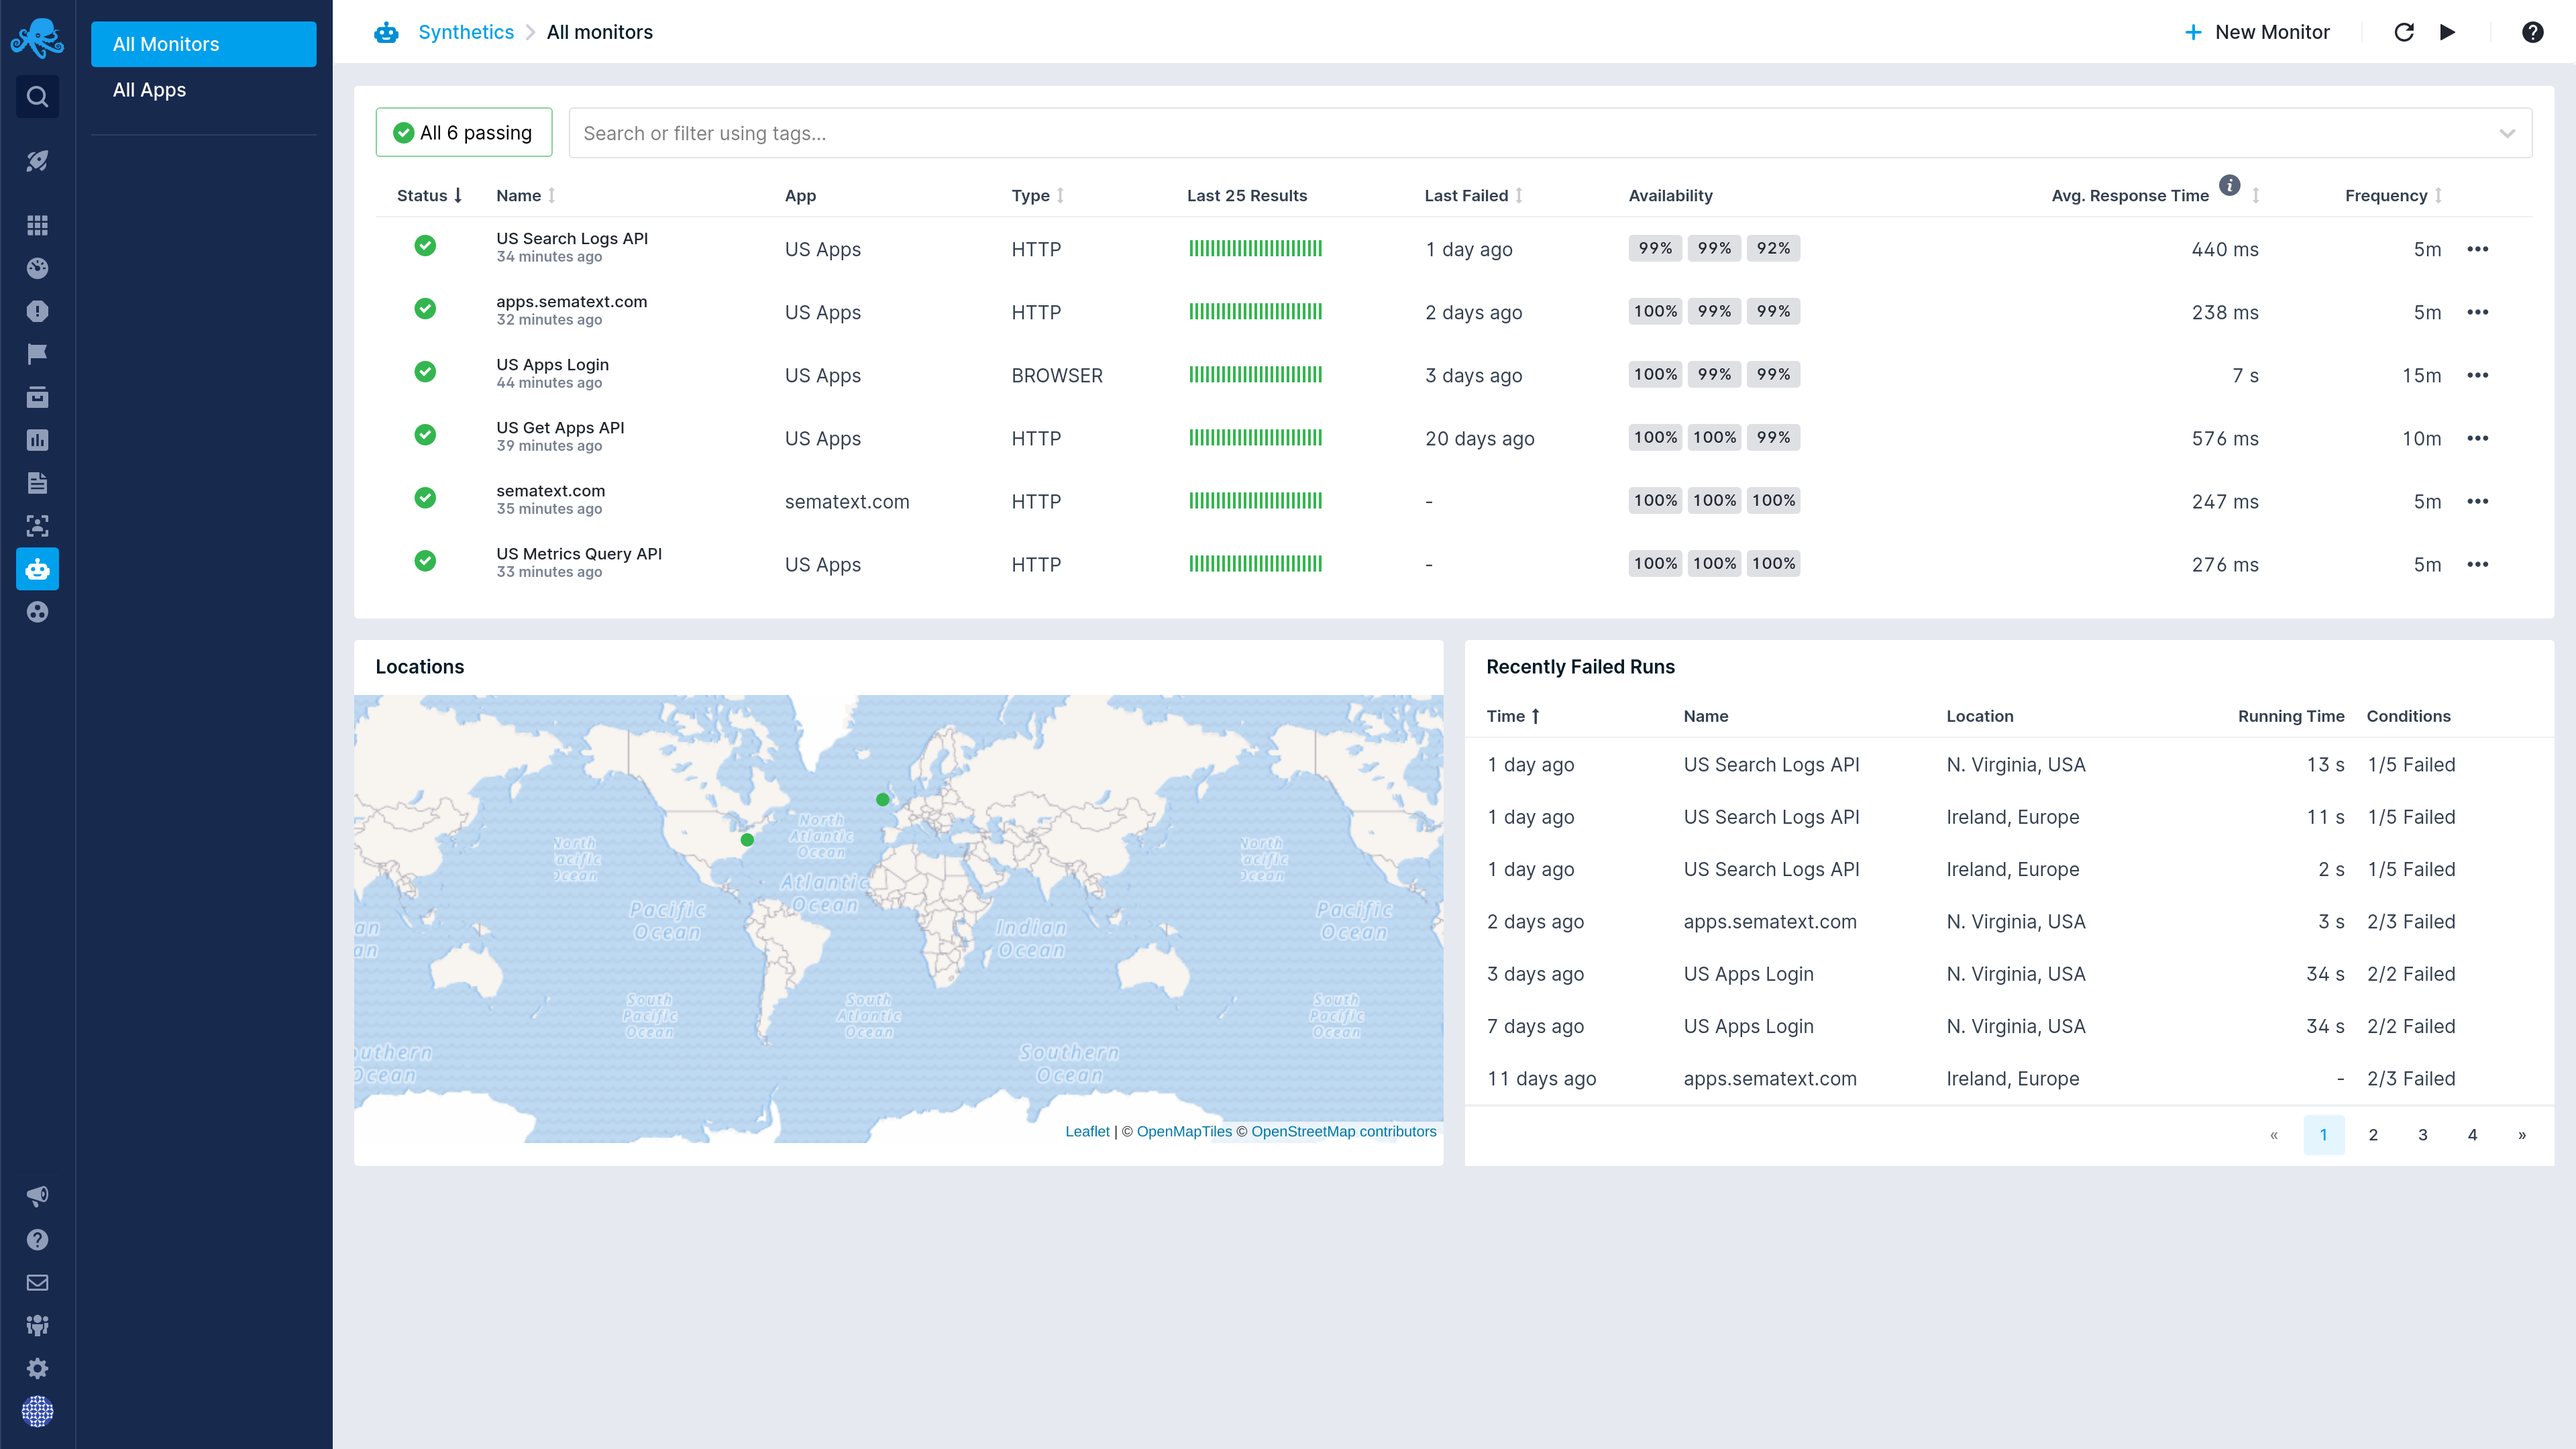
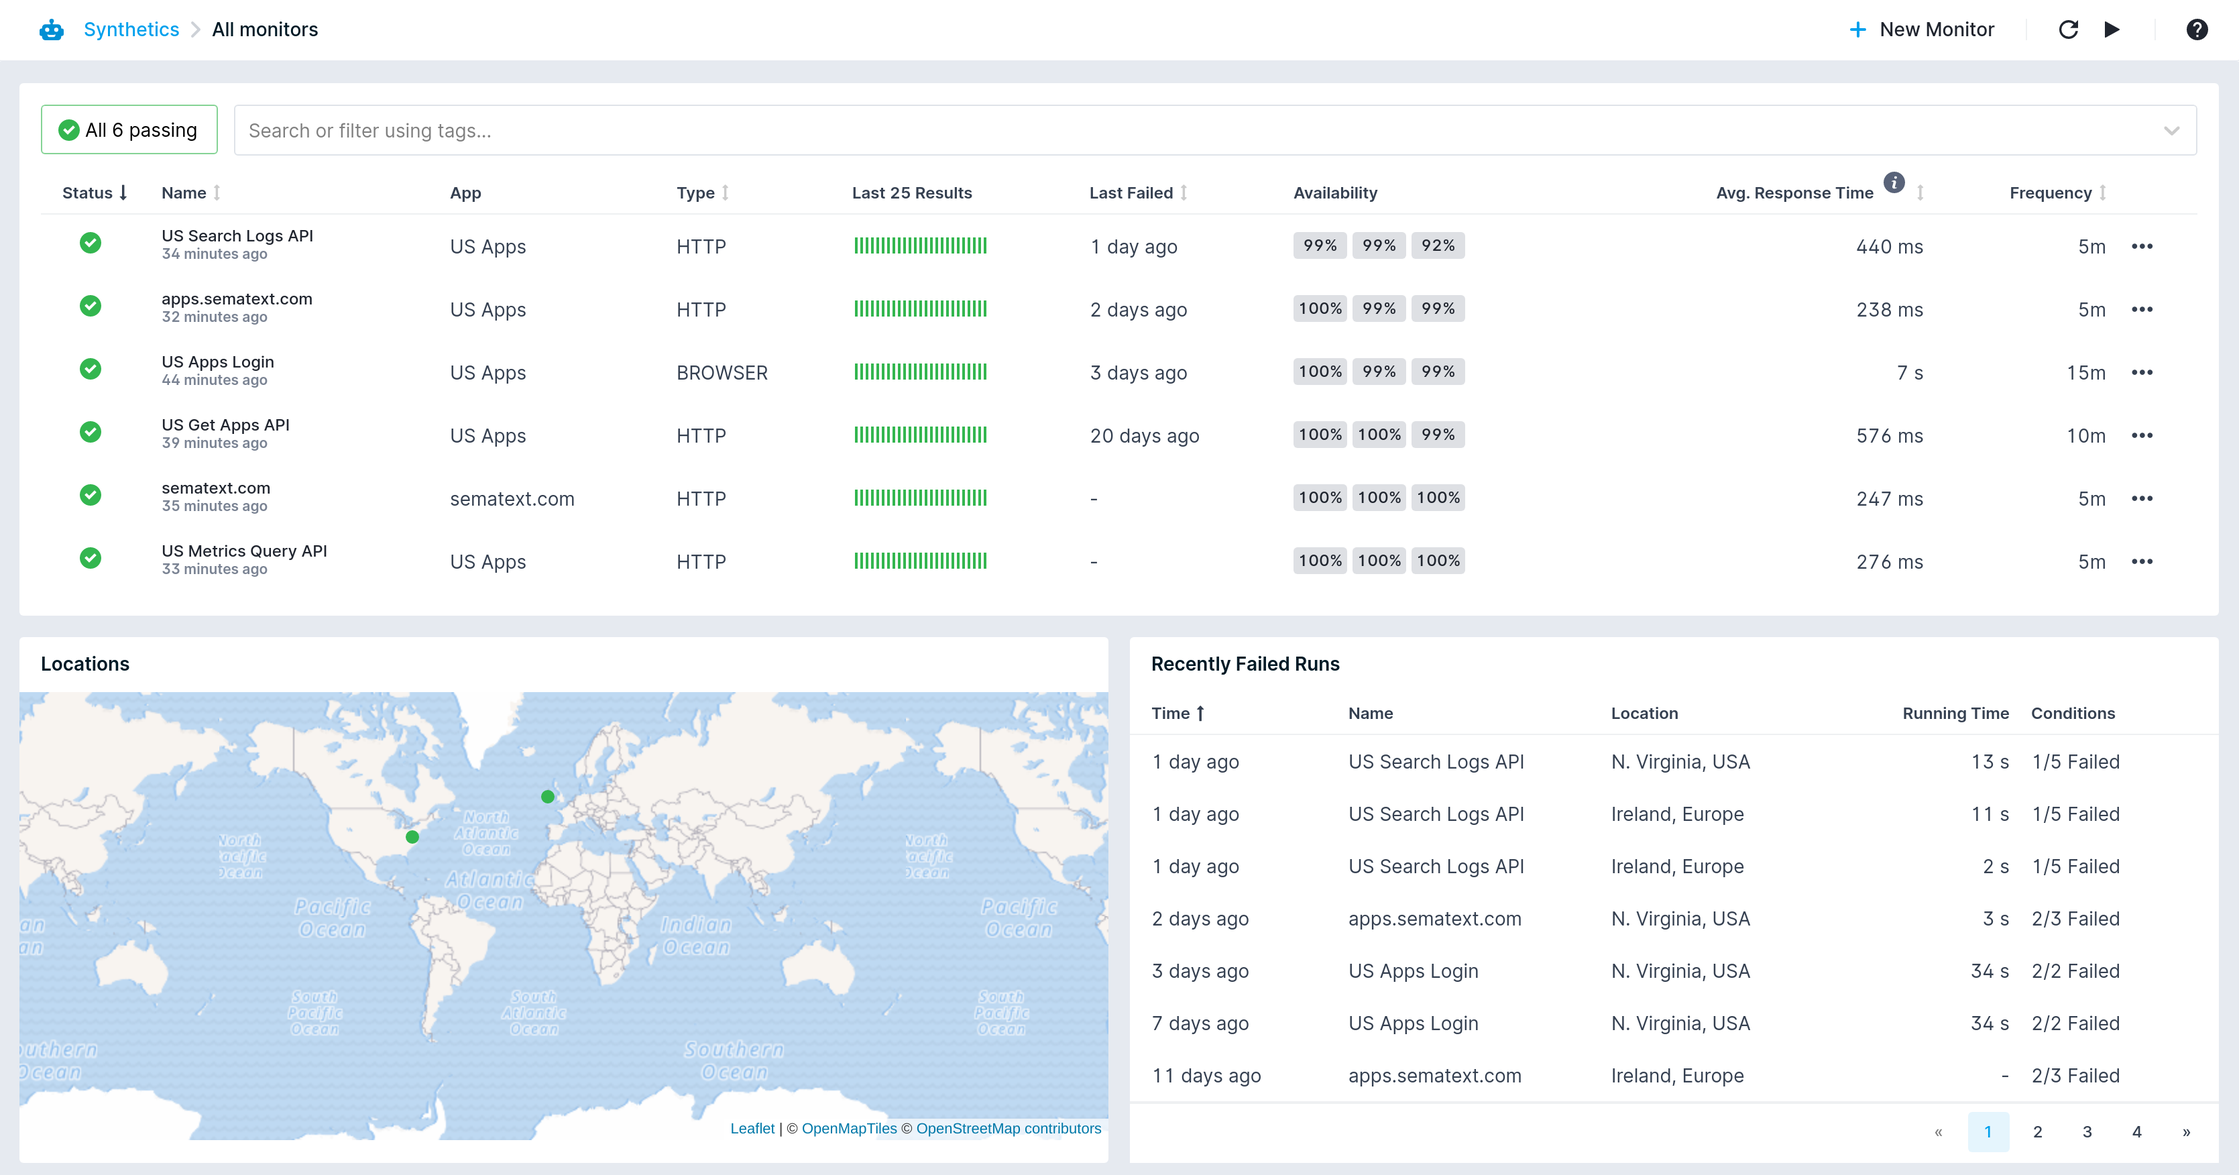
added screenshots to docs

diff --git a/docs/synthetics/browser-monitor.md b/docs/synthetics/browser-monitor.md
@@ -88,11 +88,9 @@ For every run, the browser monitor collects all the resources fetched during the
 
 <img
   class="content-modal-image"
-  alt="Browser Monitor Run - Resources Waterfall"
-  src="../images/synthetics/waterfall.png"
+  alt="Browser Monitor Run - Resources Waterfall chart"
+  src="/images/synthetics/waterfall.png"
   title="Browser Run - Resources Waterfall Chart"
-  width=770
-  height=870
 />
 
 ## Run environment

diff --git a/docs/synthetics/index.md b/docs/synthetics/index.md
@@ -8,8 +8,6 @@ Sematext Synthetics provides the ability to actively monitor APIs, Web URLs, web
   alt="Monitors Overview"
   src="../images/synthetics/monitors-overview.png"
   title="Monitors Overview"
-  width=770
-  height=870
 />
 
 ## How it works
